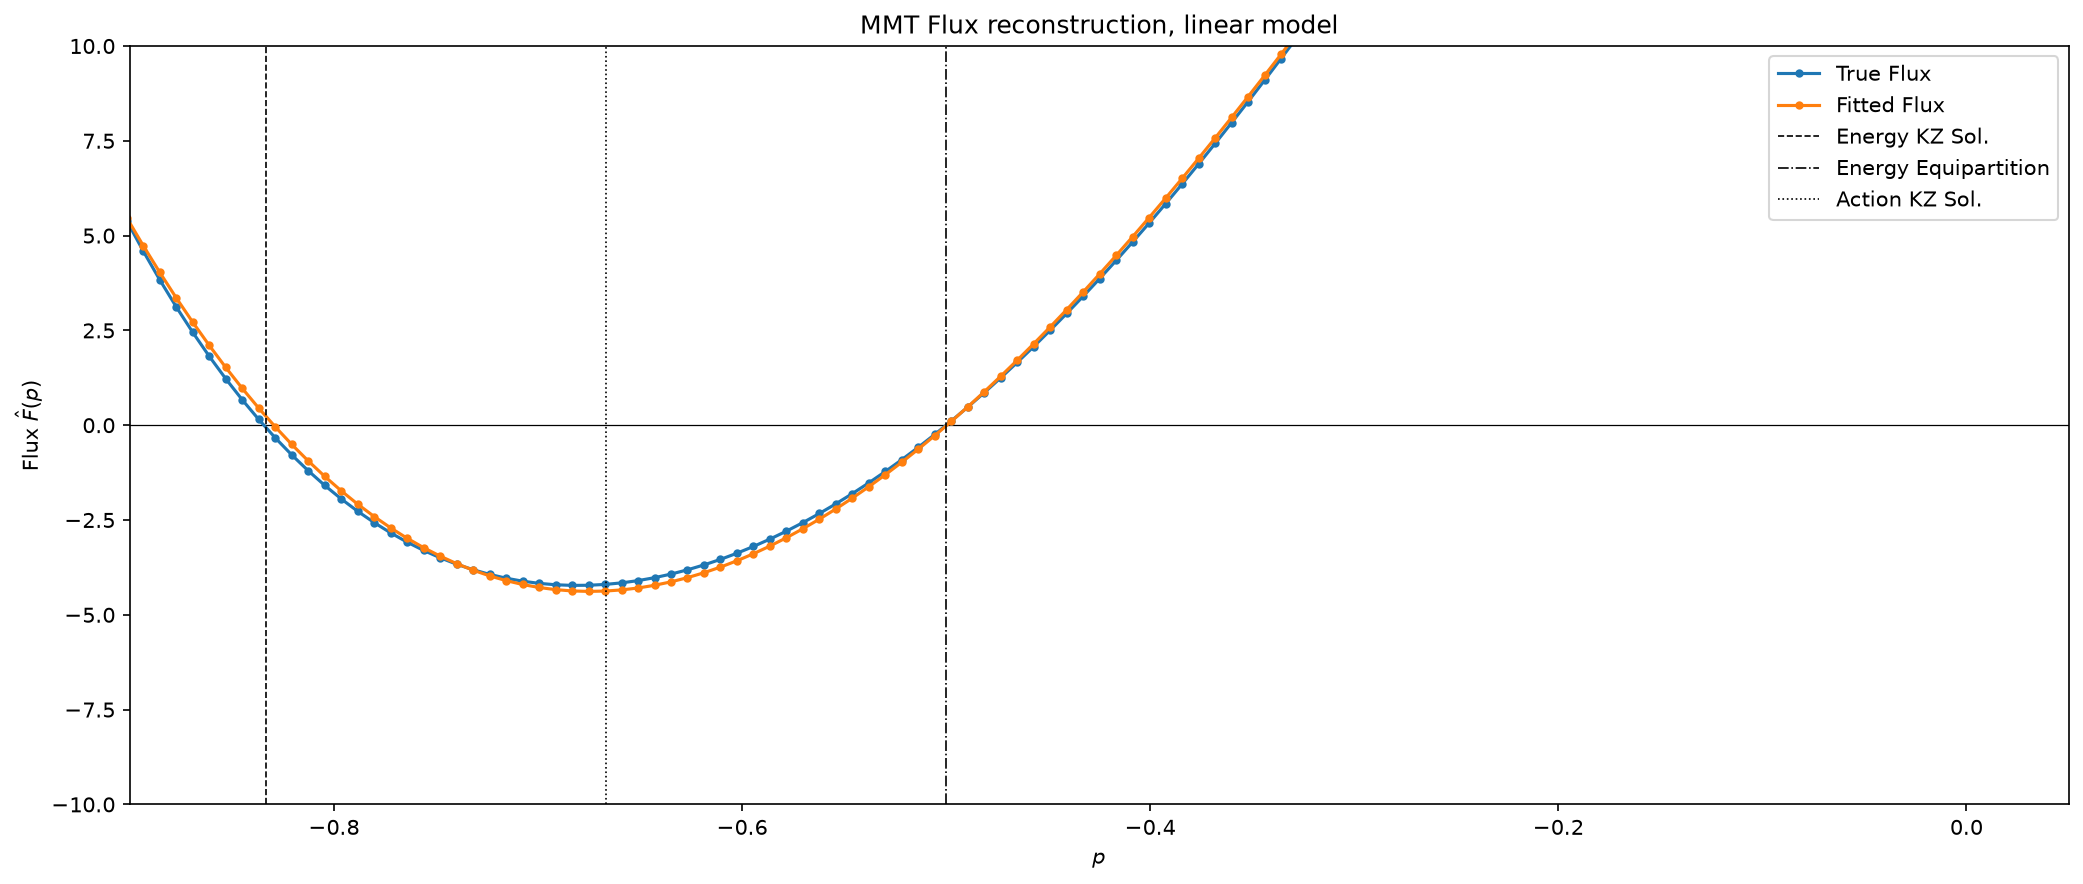
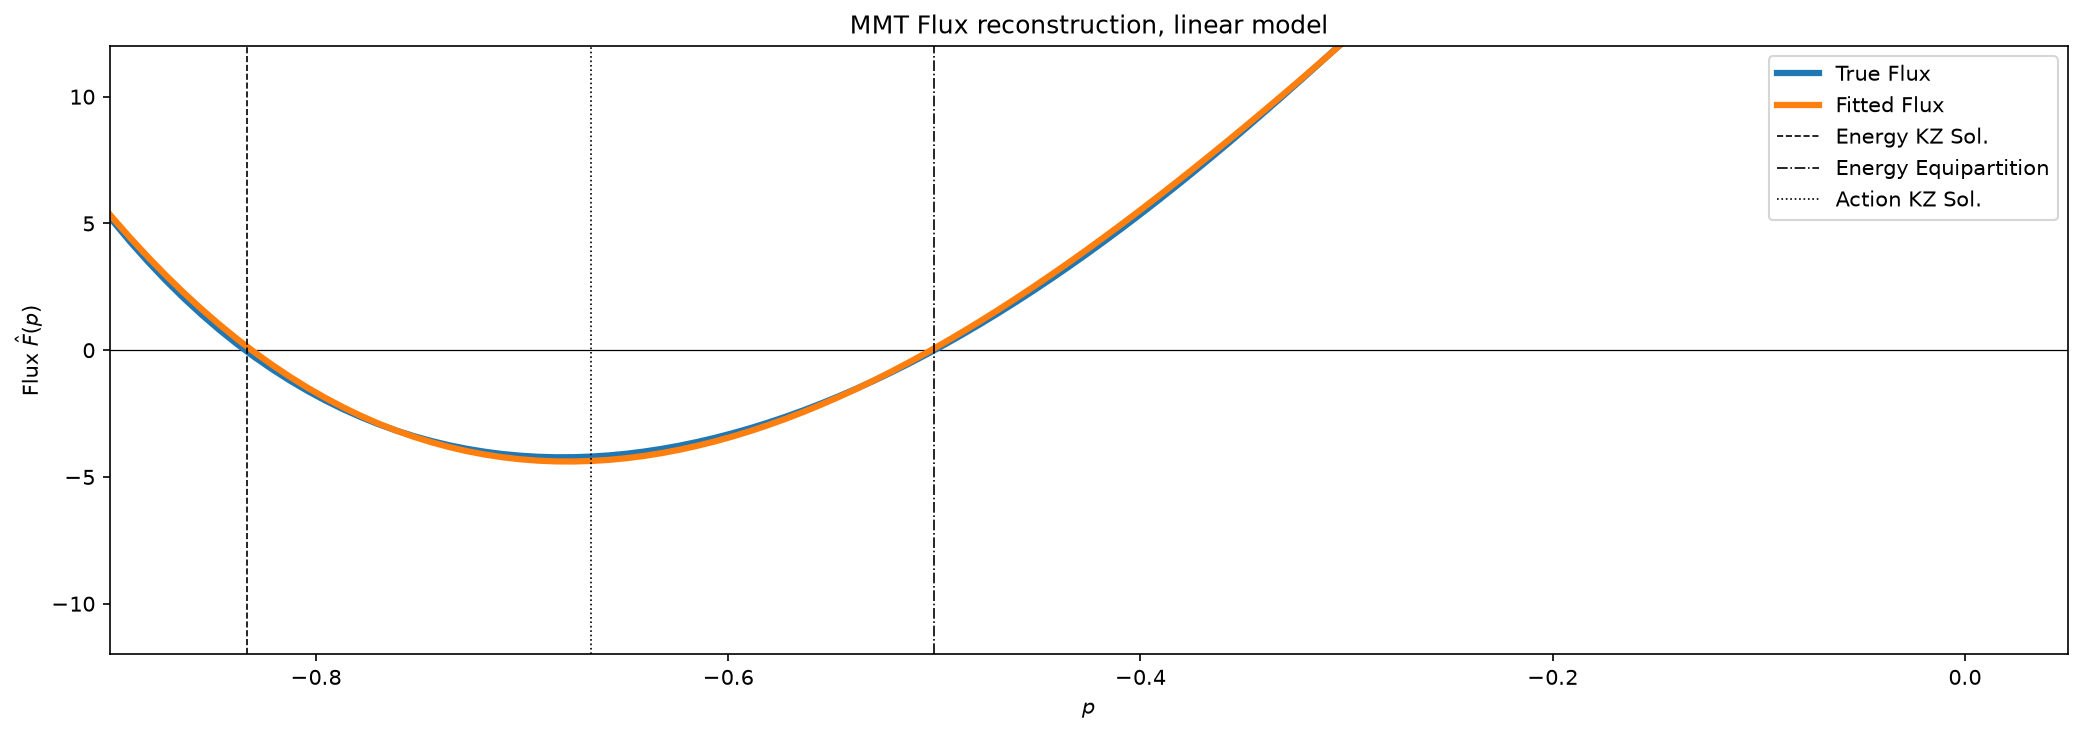
refactor: adjust parameters and improve plot aesthetics in fit_flux_through_1 function

diff --git a/src/physics/linear_operator_library_mmt.py b/src/physics/linear_operator_library_mmt.py
@@ -119,18 +119,18 @@ def fit_flux_through_1(ps, A, max_order = 4, beta=0.25,
     F_fit = reg_exact.predict(X)
     rel_error = np.linalg.norm(F_fit - F_true) / (np.linalg.norm(F_true) + 1e-20)
 
-    plt.figure(figsize=(14,6))
+    plt.figure(figsize=(14,5))
     plt.title("MMT Flux reconstruction, linear model")
     plt.xlabel(r"$p$")
     plt.ylabel(r"Flux $\hat{F}(p)$")
     plt.axhline(0, color="black", linewidth=0.6)
-    plt.plot(ps, F_true, "o-", markersize=3, label="True Flux")
-    plt.plot(ps, F_fit, "o-", markersize=3, label="Fitted Flux")
+    plt.plot(ps, F_true,  linewidth=3, label="True Flux")
+    plt.plot(ps, F_fit,  linewidth=3, label="Fitted Flux")
     plt.axvline(-5/6, linestyle="--", linewidth=0.8, color="black", label="Energy KZ Sol.")
     plt.axvline(-1/2, linestyle="-.", linewidth=0.8, color="black", label="Energy Equipartition")
     plt.axvline(-2/3, linestyle=":", linewidth=0.8, color="black", label="Action KZ Sol.")
     plt.xlim(-0.9, 0.05)
-    plt.ylim(-10, 10)
+    plt.ylim(-12, 12)
     plt.legend()
     plt.tight_layout()
 

diff --git a/main_mmt.py b/main_mmt.py
@@ -92,7 +92,7 @@ plot_coefficients_vs_p_linear(
 """
 
 (coef_e, rel_error) = fit_flux_through_1(
-    ps = np.linspace(-0.95, -0.15, 100), A = 1, max_order = 3, beta=0.25, N=600, IntN=500,
+    ps = np.linspace(-0.95, -0.1, 100), A = 1, max_order = 4, beta=0.25, N=600, IntN=500,
     save_path = "outputs_mmt/flux_through_1_mmt_linear", show=False
 )
 print("Coefficienti (modello lineare MMT): ", coef_e, "errore relativo: ", rel_error)
